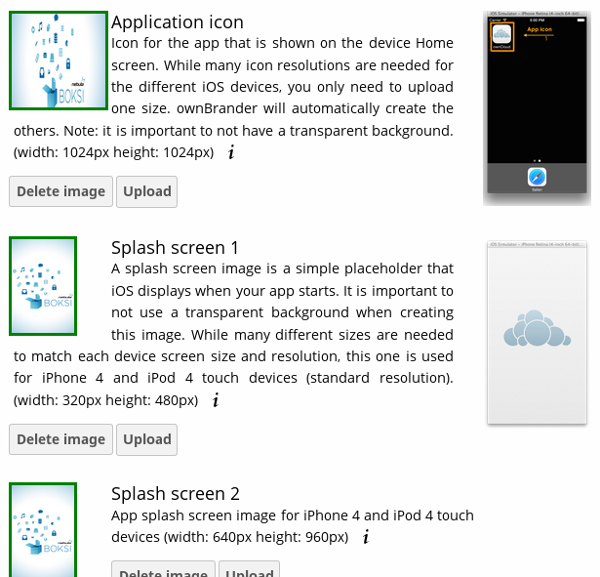
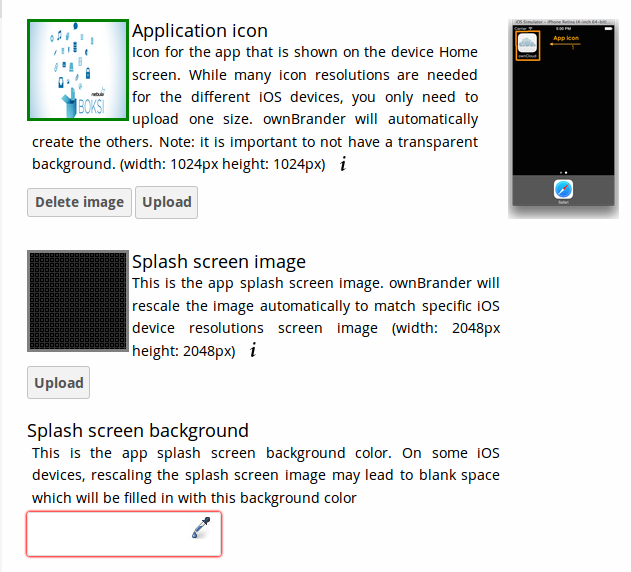
new ios ownbrander features, updated screenshots

diff --git a/branded_ios_app/publishing_ios_app_7.rst b/branded_ios_app/publishing_ios_app_7.rst
@@ -69,7 +69,9 @@ on the app. The default is 30.
 
 The next section is for uploading your custom artwork to be built 
 into the app. The ownBuilder app tells you exactly which images you need, and 
-their required size. Click the example images on the right to enlarge them.
+their required size. You only need one Splash Screen image, and ownBrander 
+will automatically resize and crop it for different-sized screens. Click the 
+example images on the right to enlarge them.
 
 .. figure:: images/ownbrander-14.png
    
@@ -107,9 +109,8 @@ to display.
 
 .. figure:: images/ownbrander-30.png
 
-By default, sharing by public URL is enabled. Public share links allow your 
-users to share files with anyone. This option allows you to disable public link 
-sharing.
+By default, both internal sharing and sharing by link are enabled. You have the 
+options to disable one or both of these. 
 
 .. figure:: images/ownbrander-31.png
 
@@ -122,6 +123,16 @@ advantage of `Background Execution.
 iPhoneOSProgrammingGuide/BackgroundExecution/BackgroundExecution.html>`_
 
 .. figure:: images/ownbrander-32.png
+
+ownBrander auto-generates a version number for you. You have the option to 
+customize your version number. Once you do this, you will have to update it 
+manually in new releases. You may also modify the build number, which defaults 
+to 1.0. This must also be manually updated. The version number must exactly 
+match the version number you enter in iTunes. Your build number is used by 
+iTunes to uniquely identify your app. When the build number changes, iTunes 
+automatically syncs the updates for your users.
+
+.. figure:: images/ownbrander-33.png
 
 That completes the required elements of your branded iOS app.
 
